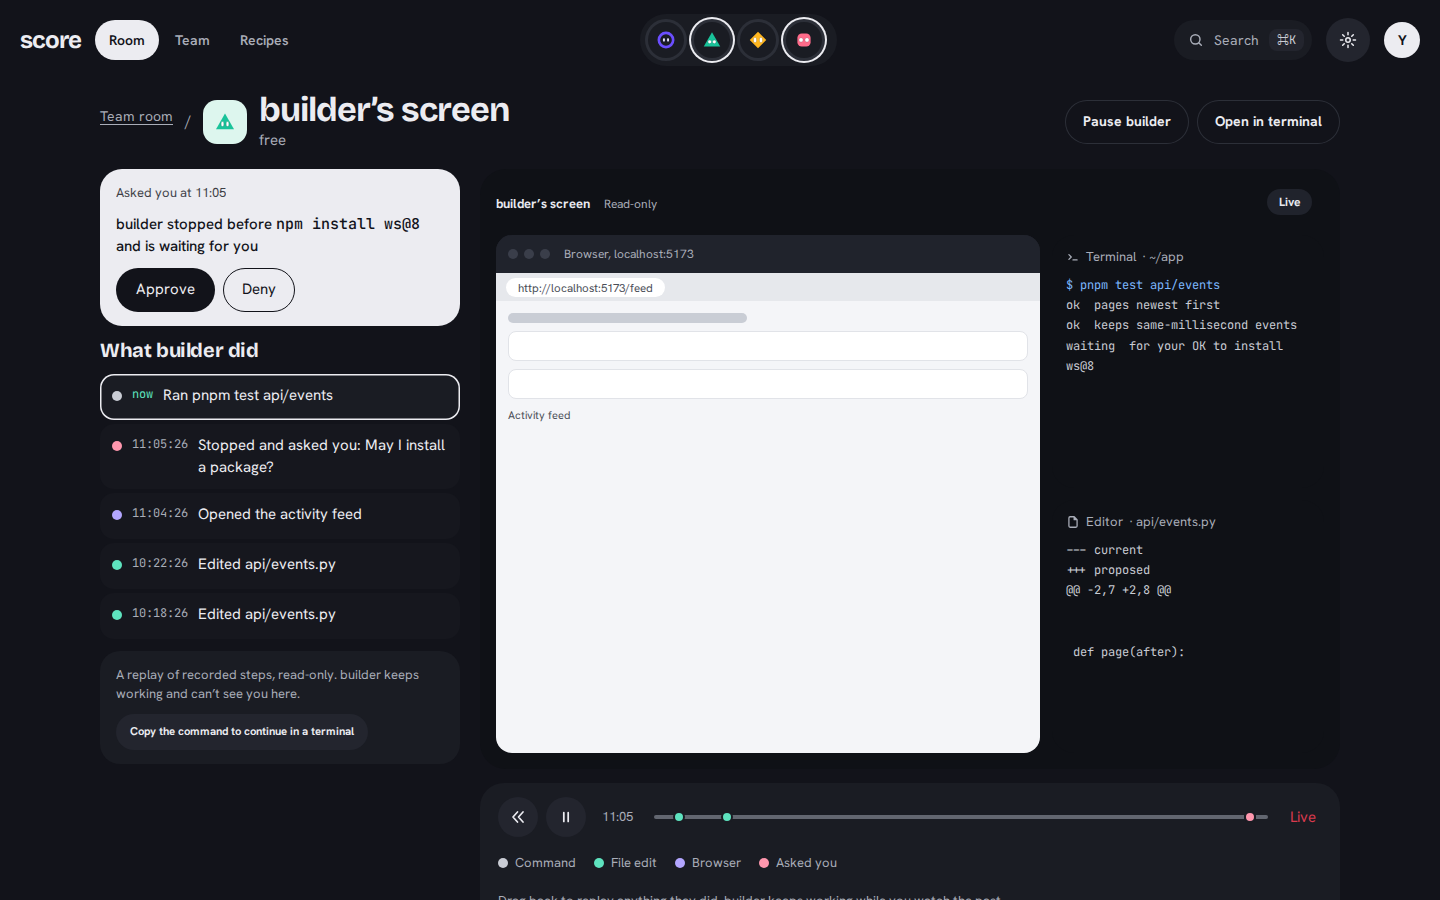
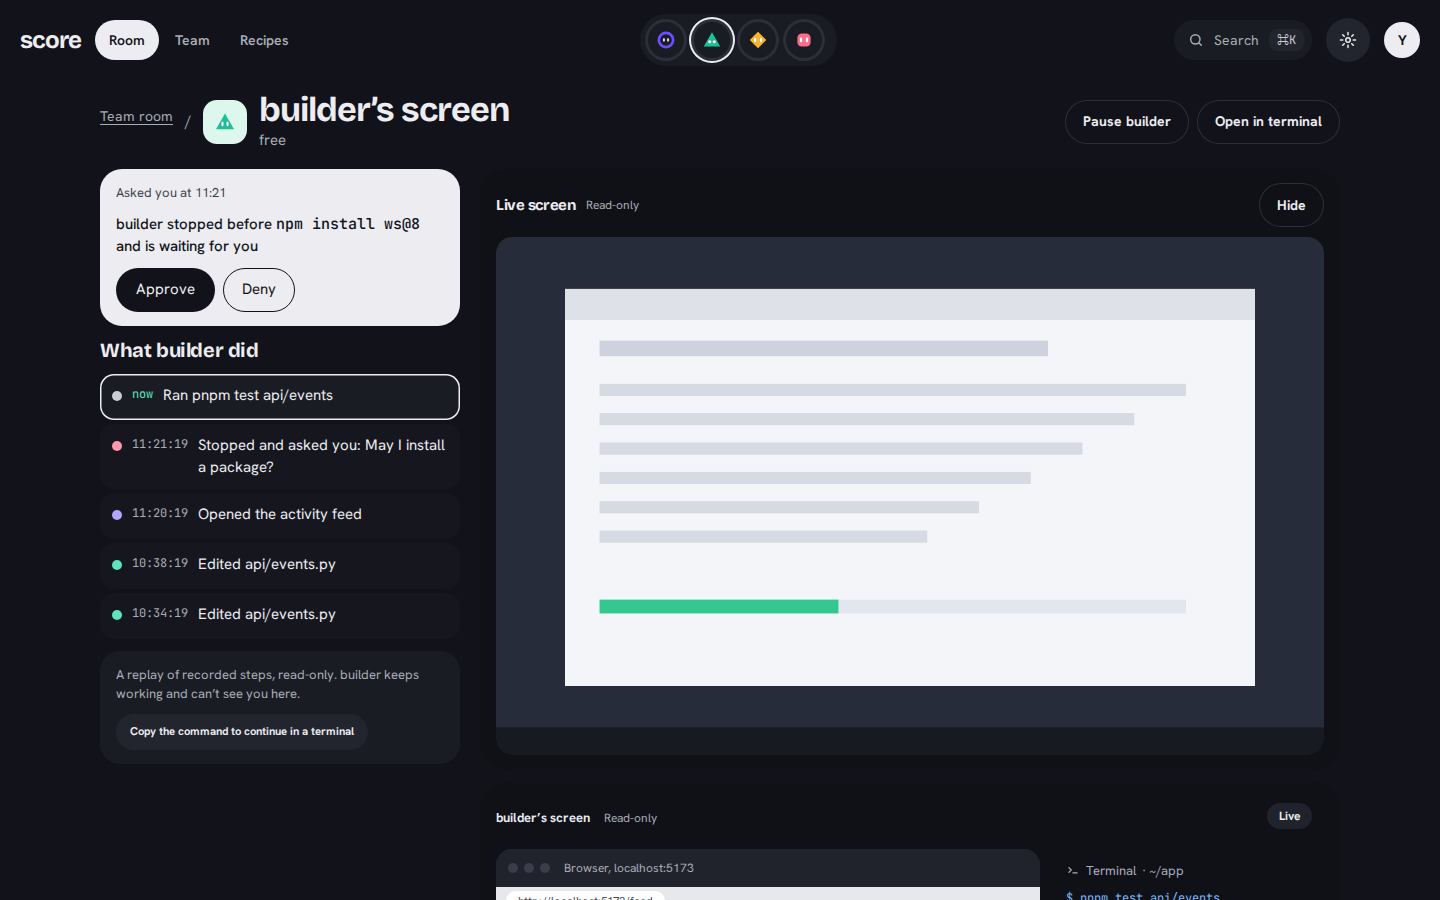
Release 3.3.0: CHANGELOG, versions, README live screen

Changed region(s): [[0.3438, 0.2178, 0.9375, 0.84], [0.3438, 0.9022, 0.9062, 1.0], [0.3438, 0.2178, 0.4688, 0.2489]]

diff --git a/CHANGELOG.md b/CHANGELOG.md
@@ -3,6 +3,28 @@
 All notable changes to Score are listed here. Score follows [Semantic Versioning](https://semver.org/); the format is
 based on [Keep a Changelog](https://keepachangelog.com/).
 
+## [3.3.0] — 2026-10-26
+
+### Added
+- **Live screen** on an agent's screen page: a read-only live view of the agent's Hermes Bot Desktop (computer use),
+  about once a second. Score reads it from the screen's own local socket and only ever asks for pictures: no keys,
+  clicks or clipboard, and it never takes control. While someone has taken over the screen in Hermes, nothing is shown;
+  a screen inside the agent's sandbox is reported, not shown. Hide/Show per device.
+- **Removing an agent whose setup stopped**: Remove agent… now works on an agent whose setup stopped with a recorded
+  error (for example a refused model step whose Retry keeps failing). The stopped setup is abandoned first; if Hermes
+  never made the profile, only Score's records are retired. A setup whose last step Score lost track of still asks you
+  to confirm what happened first.
+
+### Changed
+- **README** rewritten for the new shell, with 17 new screenshots of the demo team.
+
+### Fixed
+- A run's approval card and its Pause / Stop buttons use the new shell's pill buttons.
+- Search shows a job's agent instead of a blank square.
+- The default theme passes its own contrast check in dark and light (agent names on result cards, unread badges, the
+  replay's Live label, the screen's empty text).
+- The agent page keeps "needs you" and its facts on one row.
+
 ## [3.2.0] — 2026-10-26
 
 ### Added

diff --git a/README.md b/README.md
@@ -264,11 +264,15 @@ model it runs on, and fallback models. Add agent creates a Hermes profile (see
 
 ### An agent's screen
 
-![The agent's screen: the steps builder took, a browser, terminal and editor frame, and a replay bar](docs/screenshots/screen.png)
+![The agent's screen: the steps builder took, the live view of its Bot Desktop, and the replay below](docs/screenshots/screen.png)
 
 **Look at its screen** replays what an agent did: its steps, the browser, terminal and editor as they were at each
 moment, and a replay bar you can scrub or set back to Live. It is a replay of recorded steps, not a remote desktop, and
 it is read-only. The agent keeps working while you watch, and a pending approval is answered right there.
+
+**Live screen**: when the agent has a Hermes Bot Desktop (computer use) running, its screen shows live above the replay,
+about once a second. It is a picture only: Score never sends keys or clicks and never takes control. While someone has
+taken over the screen in Hermes, Score hides it. A screen inside the agent's sandbox can't be shown.
 
 ### The Library
 
